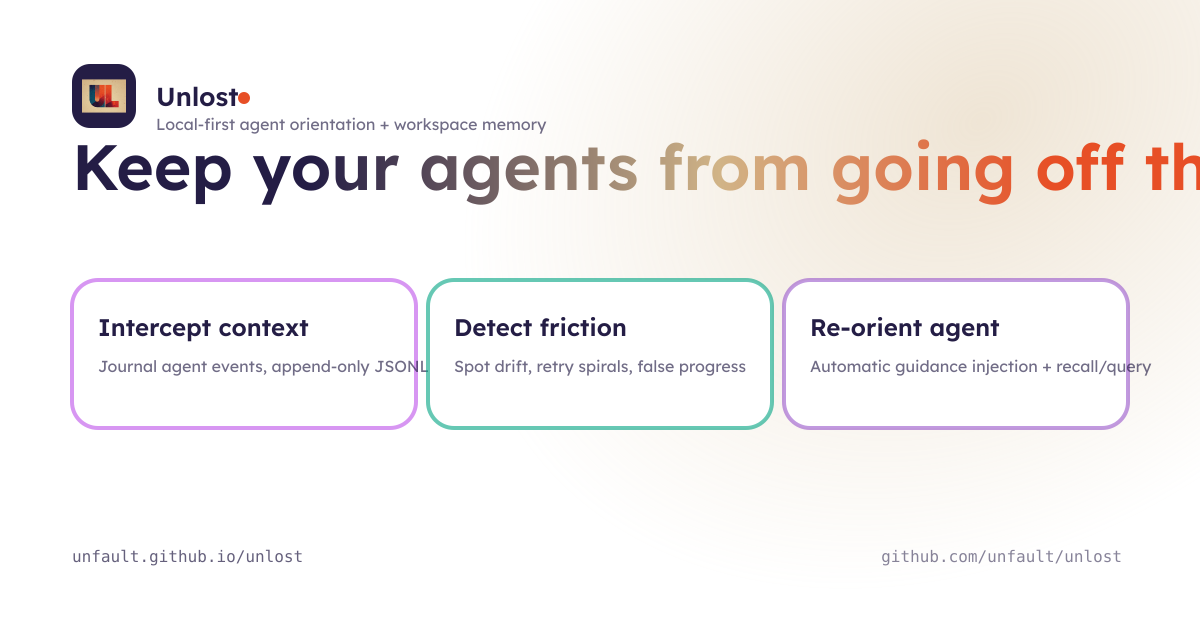
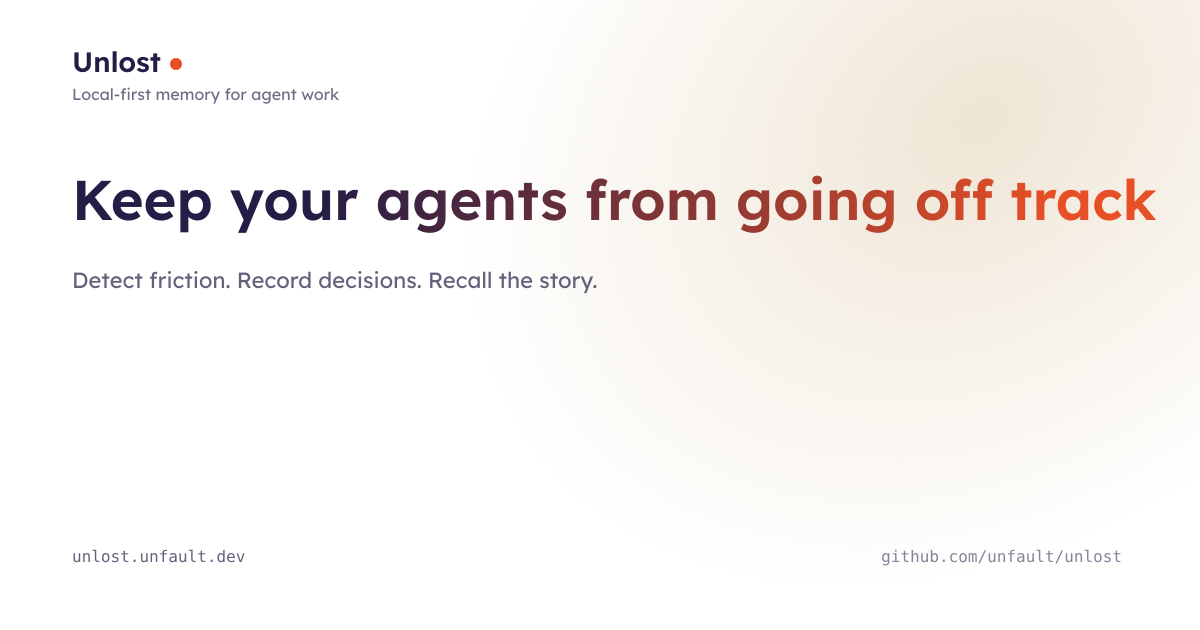
docs: refine social card and metadata
- Shorten OG title, remove logo and cards
- Update site URLs to unlost.unfault.dev
- Adjust title gradient and spacing

diff --git a/docs/index.html b/docs/index.html
@@ -8,17 +8,17 @@
   <meta name="description" content="Unlost keeps your agents oriented. It detects friction, records decisions, and lets you recall and query what happened in a codebase.">
 
   <meta property="og:title" content="Unlost">
-  <meta property="og:description" content="Keep your agents from going off the rails. Detect friction, record decisions, and recall/query what happened.">
+  <meta property="og:description" content="Keep your agents from going off track. Detect friction, record decisions, and recall/query what happened.">
   <meta property="og:type" content="website">
-  <meta property="og:url" content="https://unfault.github.io/unlost/">
-  <meta property="og:image" content="https://unfault.github.io/unlost/og.png">
+  <meta property="og:url" content="https://unlost.unfault.dev/">
+  <meta property="og:image" content="https://unlost.unfault.dev/og.png">
   <meta property="og:image:width" content="1200">
   <meta property="og:image:height" content="630">
 
   <meta name="twitter:card" content="summary_large_image">
   <meta name="twitter:title" content="Unlost">
-  <meta name="twitter:description" content="Keep your agents from going off the rails. Detect friction, record decisions, and recall/query what happened.">
-  <meta name="twitter:image" content="https://unfault.github.io/unlost/og.png">
+  <meta name="twitter:description" content="Keep your agents from going off track. Detect friction, record decisions, and recall/query what happened.">
+  <meta name="twitter:image" content="https://unlost.unfault.dev/og.png">
   <script src="https://cdn.jsdelivr.net/npm/@tailwindcss/browser@4"></script>
   <link rel="preconnect" href="https://fonts.googleapis.com">
   <link rel="preconnect" href="https://fonts.gstatic.com" crossorigin>
